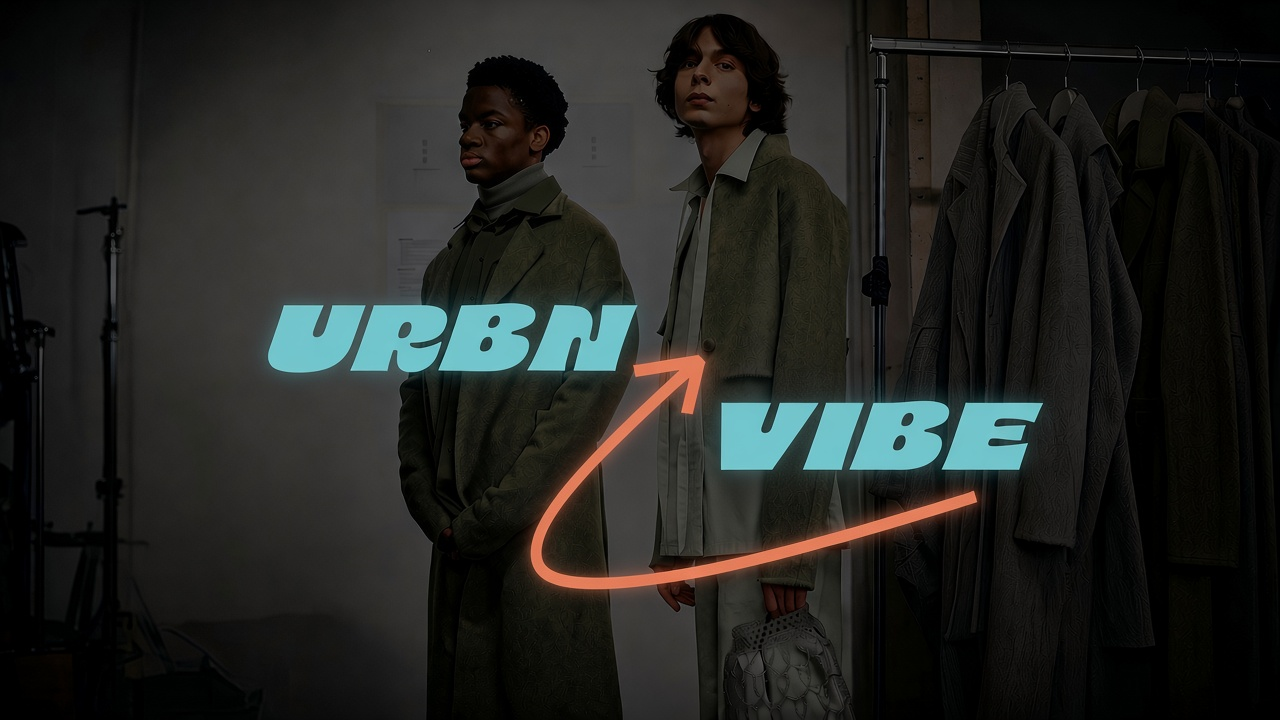
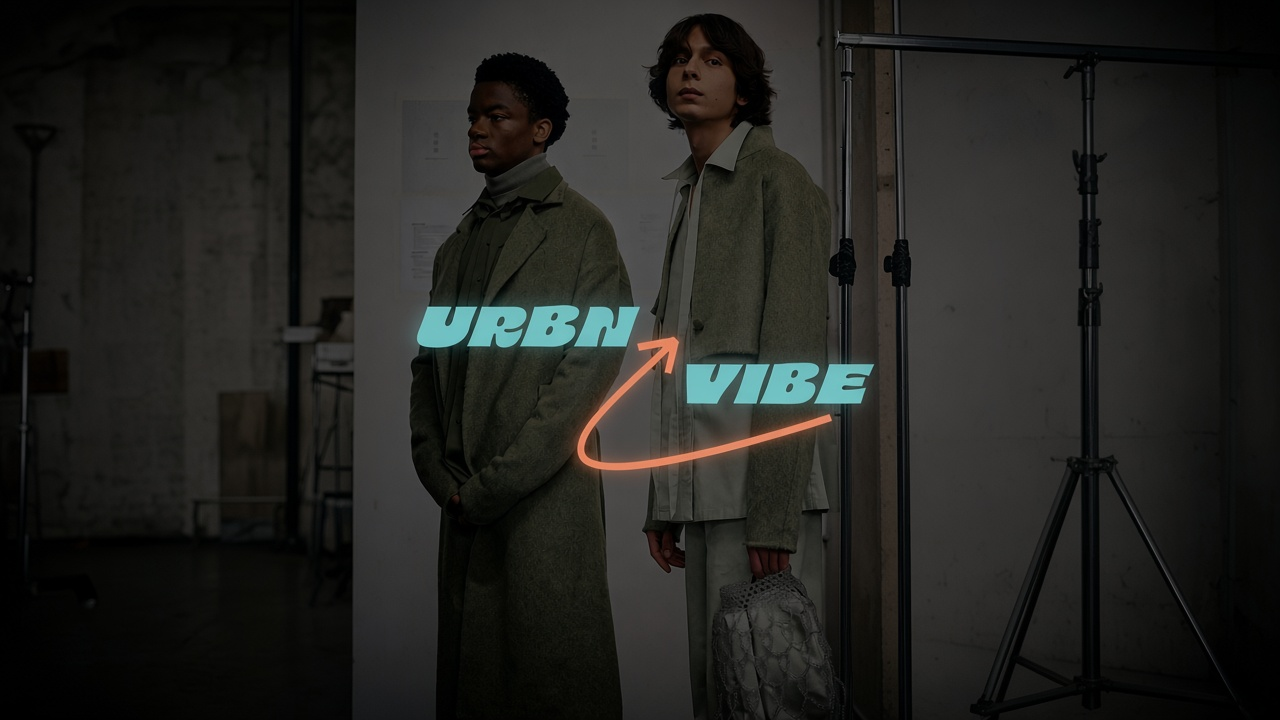
urbnvibe bilder geändert, small und big

diff --git a/urbnvibe.html b/urbnvibe.html
@@ -7,16 +7,8 @@
 
     <title>URBNVIBE – Projekte</title>
 
-    <!-- =========================================================
-         PRELOADS
-         ========================================================= -->
-
     <link rel="preload" as="image" href="cards/card-big-urbnvibe.jpg">
 
-
-    <!-- =========================================================
-         FAVICONS
-         ========================================================= -->
 
     <link rel="apple-touch-icon" sizes="180x180" href="/apple-touch-icon.png">
     <link rel="icon" type="image/png" sizes="32x32" href="/favicon-32x32.png">
@@ -26,30 +18,14 @@
     <link rel="manifest" href="/site.webmanifest">
 
 
-    <!-- =========================================================
-         DEIN GLOBALER STYLE
-         ========================================================= -->
-
     <link rel="stylesheet" href="style.css?v=1.1">
 
-
-    <!-- =========================================================
-         FONTAWESOME
-         ========================================================= -->
 
     <link rel="stylesheet" href="https://cdnjs.cloudflare.com/ajax/libs/font-awesome/6.4.0/css/all.min.css">
 
 
-    <!-- =========================================================
-         INTER FONT
-         ========================================================= -->
-
     <link href="https://fonts.googleapis.com/css2?family=Inter:wght@300;400;600;800;900&display=swap" rel="stylesheet">
 
-
-    <!-- =========================================================
-         INTERNES URBNVIBE CSS
-         ========================================================= -->
 
     <style>
         /* =====================================================
@@ -59,7 +35,7 @@
         html {
             visibility: visible !important;
             opacity: 1 !important;
-            scroll-behavior: auto; /* Auf auto setzen für direkteres Scroll-Gefühl beim Effekt */
+            scroll-behavior: auto;
         }
 
         body {
@@ -76,15 +52,13 @@
            SCROLL-ANIMATION-BEREICH (HERO + FLYER)
            ===================================================== */
 
-        /* Dieser Track bestimmt, wie lange der Pin-Effekt dauert */
         .scroll-sequence {
             position: relative;
-            height: 250vh; /* 2.5x Bildschirmhöhe Scroll-Zeit, bevor es normal weitergeht */
+            height: 250vh;
             width: 100%;
             background-color: #0d0d0d;
         }
 
-        /* Der fixierte Container während des Scrollens */
         .sticky-container {
             position: sticky;
             top: 0;
@@ -111,11 +85,12 @@
             width: 100% !important;
             height: 100% !important;
             object-fit: cover !important;
+            object-position: center !important;
             border-radius: 0 !important;
             margin: 0 !important;
         }
 
-        /* Der Fade ins Dunkle (passt sich der Hintergrundfarbe an) */
+        /* Overlay für den Dunkel-Fade */
         .hero-overlay {
             position: absolute;
             top: 0;
@@ -127,7 +102,7 @@
             z-index: 2;
         }
 
-        /* Container für die Flyer, der von unten hochkommt */
+        /* Container für die Flyer (kommt von unten hoch) */
         .flyer-layer {
             position: absolute;
             top: 0;
@@ -136,10 +111,10 @@
             height: 100%;
             z-index: 3;
             display: flex;
-            align-items: center; /* Zentriert den Content vertikal */
+            align-items: center;
             justify-content: center;
-            opacity: 0; /* Startet unsichtbar */
-            transform: translateY(100vh); /* Startet unterhalb des Bildschirms */
+            opacity: 0;
+            transform: translateY(100vh);
         }
 
         .flyer-layer-inner {
@@ -164,8 +139,6 @@
             width: 100% !important;
             max-width: 1400px !important;
             margin: 0 auto !important;
-            
-            /* Weniger Padding oben, da der Flyer schon drüber gezeigt wurde */
             padding: 60px 40px 130px !important; 
             box-sizing: border-box !important;
         }
@@ -190,8 +163,6 @@
             padding: 0 !important;
         }
 
-        /* Flyer Sektion innerhalb der Animation hat kein Margin bottom mehr, 
-           da sie per Flexbox zentriert wird */
         .flyer-layer-inner .urbnvibe-section {
             margin-bottom: 0 !important; 
         }
@@ -244,7 +215,7 @@
 
 
         /* =====================================================
-           FLYER
+           FLYER GRID
            ===================================================== */
 
         .urbnvibe-flyer-grid {
@@ -265,7 +236,7 @@
             visibility: visible !important;
             opacity: 1 !important;
             border-radius: 6px !important;
-            box-shadow: 0 15px 40px rgba(0,0,0,0.4); /* Leichter Schatten für Tiefe beim rein-sliden */
+            box-shadow: 0 15px 40px rgba(0,0,0,0.4);
         }
 
 
@@ -329,7 +300,6 @@
         /* =====================================================
            DETAILS & LOGO & VIDEO & CREATIVES
            ===================================================== */
-        /* ... (Dein restliches CSS bleibt hier 1:1 gleich) ... */
 
         .urbnvibe-details { display: block !important; visibility: visible !important; opacity: 1 !important; width: 100% !important; margin: 25px 0 0 0 !important; padding: 0 !important; list-style: none !important; }
         .urbnvibe-details li { display: flex !important; justify-content: space-between !important; align-items: flex-start !important; width: 100% !important; margin: 0 !important; padding: 13px 0 !important; border-top: 1px solid currentColor !important; color: inherit !important; }
@@ -350,12 +320,20 @@
 
 
         /* =====================================================
-           MOBILE / TABLET
+           RESPONSIVE (UNTER 1100PX & TABLET/MOBILE)
            ===================================================== */
+
+        /* Optimierung für Bildschirme kleiner als 1100px */
+        @media (max-width: 1099px) {
+            .urbnvibe-hero-img {
+                object-fit: cover !important;
+                object-position: center center !important;
+            }
+        }
 
         @media (max-width: 900px) {
             #urbnvibe-page { padding: 40px 25px 90px !important; }
-            .flyer-layer-inner { padding: 0 25px; } /* Mobile Padding für die Animation */
+            .flyer-layer-inner { padding: 0 25px; }
             
             .urbnvibe-section { margin-bottom: 90px !important; }
             .urbnvibe-two-column, .urbnvibe-two-column.reverse { grid-template-columns: 1fr !important; column-gap: 0 !important; row-gap: 45px !important; }
@@ -368,10 +346,6 @@
             .urbnvibe-logo-container { justify-content: flex-start !important; }
             .urbnvibe-logo-container img { width: min(100%, 550px) !important; }
         }
-
-        /* =====================================================
-           SMARTPHONE
-           ===================================================== */
 
         @media (max-width: 600px) {
             #urbnvibe-page { padding: 30px 18px 70px !important; }
@@ -388,35 +362,24 @@
 
 <body>
 
-    <!-- =========================================================
-         HEADER
-         ========================================================= -->
     <div id="header-placeholder"></div>
 
-
-    <!-- =========================================================
-         SCROLL-SEQUENCE (HERO & FLYER REVEAL)
-         ========================================================= -->
 
     <div class="scroll-sequence">
         <div class="sticky-container">
             
-            <!-- 1. Hero Image im Hintergrund -->
             <picture class="urbnvibe-hero-picture">
-                <source media="(max-width: 768px)" srcset="cards/card-small-urbnvibe.jpg">
+                <source media="(max-width: 644px)" srcset="cards/card-small-urbnvibe.jpg">
                 <img src="cards/card-big-urbnvibe.jpg" alt="URBNVIBE Hero Image" class="urbnvibe-hero-img">
             </picture>
             
-            <!-- 2. Overlay, das beim Scrollen schwarz wird -->
             <div class="hero-overlay"></div>
             
-            <!-- 3. Die Flyer-Sektion, die hoch slidet -->
             <div class="flyer-layer">
                 <div class="flyer-layer-inner">
                     <section class="urbnvibe-section">
                         <div class="urbnvibe-two-column flyer-column">
                             
-                            <!-- BILDER -->
                             <div class="urbnvibe-media">
                                 <div class="urbnvibe-flyer-grid">
                                     <img src="images/flyer_seite_1.jpg" alt="URBNVIBE Flyer Seite 1">
@@ -424,7 +387,6 @@
                                 </div>
                             </div>
 
-                            <!-- TEXT -->
                             <div class="urbnvibe-info">
                                 <span class="urbnvibe-info-label">01 / Print Design</span>
                                 <h2>Flyer Design</h2>
@@ -442,15 +404,8 @@
     </div>
 
 
-    <!-- =========================================================
-         NORMALER SCROLL-CONTENT (Schliesst sich nahtlos an)
-         ========================================================= -->
-
     <main id="urbnvibe-page">
 
-        <!-- =====================================================
-             02 — LOGO
-             ===================================================== -->
         <section class="urbnvibe-section">
             <div class="urbnvibe-two-column reverse">
                 <div class="urbnvibe-info">
@@ -469,9 +424,6 @@
         </section>
 
 
-        <!-- =====================================================
-             03 — VIDEO
-             ===================================================== -->
         <section class="urbnvibe-section">
             <div class="urbnvibe-two-column">
                 <div class="urbnvibe-media">
@@ -486,16 +438,13 @@
                     <span class="urbnvibe-info-label">03 / Motion Design</span>
                     <h2>Awareness Video</h2>
                     <p class="urbnvibe-info-description">
-                        Ein dynamisch geschnittenes Motion-Design-Video, das den urbanen Vibe der Marke in Bewegung versetzt. Durch rhythmische Bildwechsel und abgestimmte Grafiken wird URBNVIBE lebendig inszeniert.
+                        Ein dynamisch geschnittes Motion-Design-Video, das den urbanen Vibe der Marke in Bewegung versetzt. Durch rhythmische Bildwechsel und abgestimmte Grafiken wird URBNVIBE lebendig inszeniert.
                     </p>
                 </div>
             </div>
         </section>
 
 
-        <!-- =====================================================
-             04 — CREATIVES
-             ===================================================== -->
         <section class="urbnvibe-section">
             <div class="urbnvibe-creatives-grid">
                 <div class="urbnvibe-creative"><img src="images/creative-1.png" alt="URBNVIBE Creative 1"></div>
@@ -519,17 +468,11 @@
     </main>
 
 
-    <!-- =========================================================
-         FOOTER
-         ========================================================= -->
     <div id="footer-placeholder"></div>
 
     <script src="header.js"></script>
 
 
-    <!-- =========================================================
-         ANIMATION SCRIPT
-         ========================================================= -->
     <script>
         document.addEventListener("scroll", () => {
             const scrollY = window.scrollY;
@@ -538,7 +481,7 @@
             const overlay = document.querySelector('.hero-overlay');
             const flyerLayer = document.querySelector('.flyer-layer');
 
-            // 1. Fade ins Dunkle (Startet sofort, ist bei 70% der Bildschirmhöhe komplett schwarz)
+            // 1. Fade ins Dunkle
             let fadeProgress = scrollY / (windowH * 0.7);
             if (fadeProgress > 1) fadeProgress = 1;
             if (fadeProgress < 0) fadeProgress = 0;
@@ -547,8 +490,7 @@
                 overlay.style.opacity = fadeProgress;
             }
 
-            // 2. Flyer & Text kommen von unten nach oben (Parallax)
-            // Startet, wenn 30% gescrollt wurde, endet wenn 120% gescrollt wurde
+            // 2. Parallax Reveal der Flyer-Sektion
             let slideStart = windowH * 0.3;
             let slideEnd = windowH * 1.2;
             let slideProgress = (scrollY - slideStart) / (slideEnd - slideStart);
@@ -556,15 +498,11 @@
             if (slideProgress > 1) slideProgress = 1;
             if (slideProgress < 0) slideProgress = 0;
 
-            // Smoothe Easing-Kurve (Damit es sanft abbremst, wenn es in der Mitte ankommt)
             let easeOut = 1 - Math.pow(1 - slideProgress, 3);
 
             if (flyerLayer) {
-                // Bewegt sich von +100vh (unter dem Bildschirm) zu 0 (genau in der Mitte)
                 let yOffset = 100 - (easeOut * 100);
                 flyerLayer.style.transform = `translateY(${yOffset}vh)`;
-                
-                // Opacity steigt leicht an für den perfekten Fade-In Effekt
                 flyerLayer.style.opacity = slideProgress > 0 ? (slideProgress + 0.1) : 0;
             }
         });
